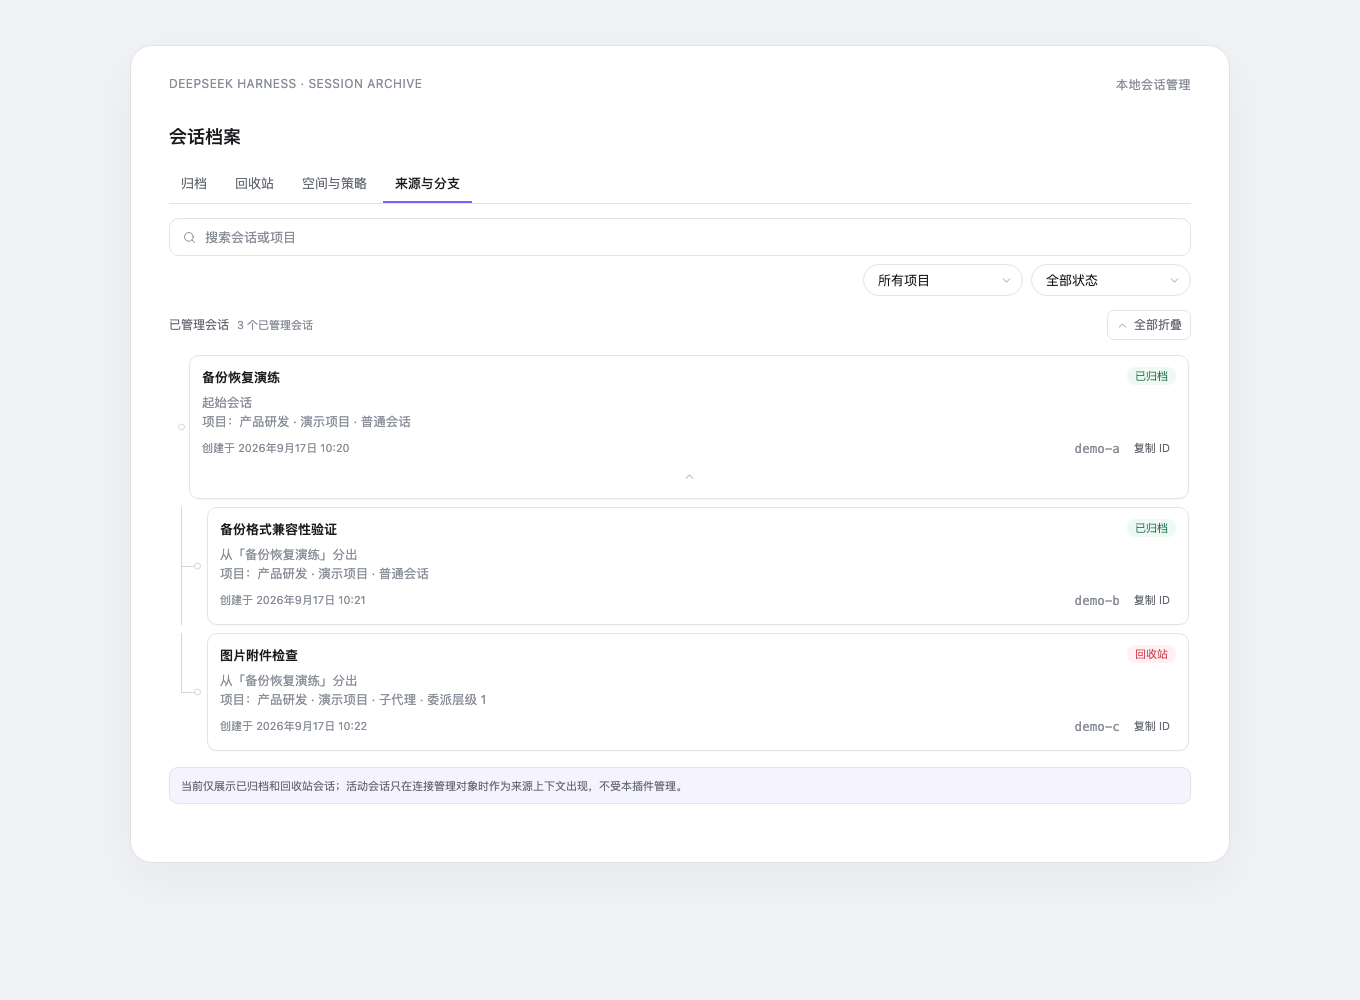
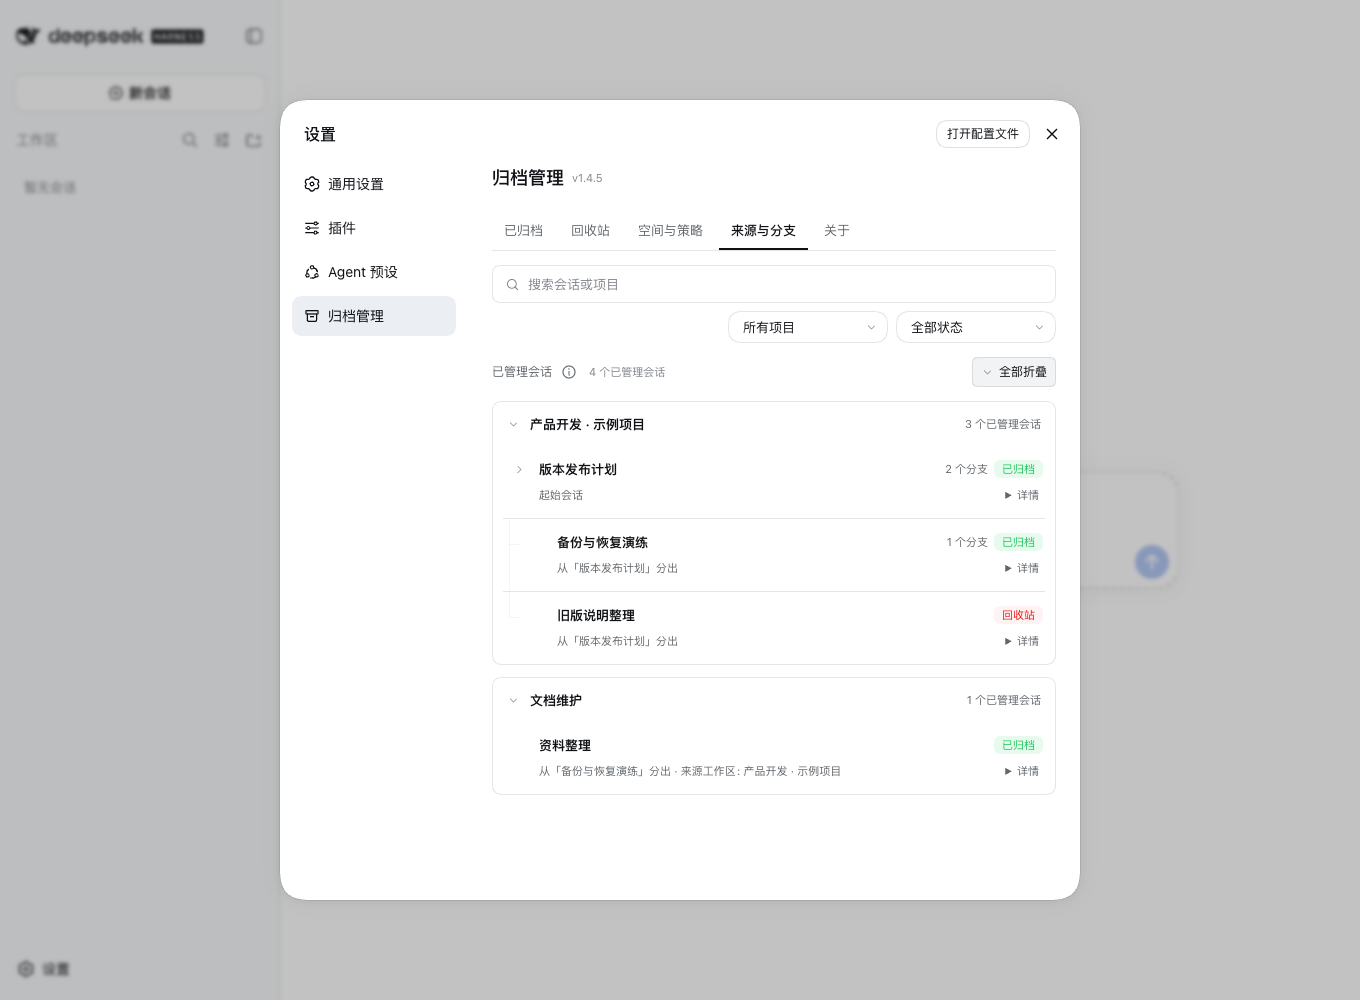
docs: refresh 1.4.5 guides and screenshots (#54)

diff --git a/README.md b/README.md
@@ -32,7 +32,7 @@ Archive Management gives DeepSeek Harness a place to find chats hidden from the 
 
 > The English name is **Archive Management**, and the Chinese name is **归档管理**. The installation package remains `dsh-archived-chats`.
 >
-> This document follows the `main` branch. This guide targets 1.4.4, whose runtime code is unchanged from 1.4.3; package metadata now lists DSH `0.1.7-rc.2` among the verified Hosts. 1.4.3 accepts the v4 session format those Hosts publish. The 1.4.2 export writer no longer carries a dependency that prevents startup on newer Hosts. See the [changelog](CHANGELOG.md) for release history, including 1.4.1's English rename and feedback improvements.
+> This document follows the `main` branch and targets 1.4.5. This release refreshes documentation and screenshots; runtime behavior and Host compatibility are unchanged from 1.4.4. See the [changelog](CHANGELOG.md) for release history.
 
 ## Quick start
 
@@ -65,6 +65,19 @@ dsh plugin --profile web update dsh-archived-chats
 | Storage and relationships | Storage accounting, optional automatic Recycle Bin cleanup, and read-only Origins & Branches. |
 
 The five views are **Archived**, **Recycle Bin**, **Storage & Retention**, **Origins & Branches**, and **About**. Archiving does not create historical versions; Recycle Bin protection snapshots support recovery, not a browsable version-history library.
+
+## Screenshots
+
+These screenshots show the current interface with synthetic example chats; they contain no private conversations. The [marketplace screenshot list](screenshots.json) uses the same files in the same order.
+
+1. [Archived chats](assets/screenshots/preview-01.png)
+2. [Full-text search](assets/screenshots/preview-02.png)
+3. [Workspace bulk archive](assets/screenshots/preview-03.png)
+4. [Read-only preview](assets/screenshots/preview-04.png)
+5. [Recycle Bin](assets/screenshots/preview-05.png)
+6. [Restore confirmation](assets/screenshots/preview-06.png)
+7. [Storage & Retention](assets/screenshots/preview-07.png)
+8. [Origins & Branches](assets/screenshots/preview-08.png)
 
 The Archived header has **Bulk archive** and **More**. More contains Import backup, Export all, Unarchive all, then Delete all after a separator. The Recycle Bin header directly shows **Restore all** and **Empty Recycle Bin** without a More menu. Recycle rows retain the preview icon and use compact **Restore** and **Delete** text buttons. Workspace and global restoration separately confirm scope, counts, and the Archived destination, skipping pending deletions. Empty Recycle Bin still requires irreversible-action confirmation. The header keeps consistent dimensions across tabs. Workspace actions and global export, unarchive, and deletion ask you to confirm the complete archive scope and chat count.
 
@@ -121,7 +134,7 @@ The package declares DSH `>=0.1.0-rc.7`; individual features depend on public Ho
 
 Recycle Bin preview still depends on the original session; a missing original may prevent preview even when a protection snapshot can restore it. See [compatibility and limits](docs/USER_GUIDE.md#compatibility-and-limits).
 
-The declared range remains capability-based. Release automation passed Node.js 18 on Ubuntu and Node.js 24 on Ubuntu, macOS, and Windows; the Node.js 24 matrix required the official Host backend integration (5/5) and package checks. The installed 1.4.0 artifact also passed the official native round trip (5/5) against `@deepseek-ai/dsh-session@0.1.5-rc.2`.
+The declared range remains capability-based. Release automation tests Node.js 18 on Ubuntu and Node.js 24 on Ubuntu, macOS, and Windows; the Node.js 24 matrix requires the official `@deepseek-ai/dsh-session@0.1.7-rc.2` Host backend integration (5/5) and package checks, including the v4 session format.
 
 ## Documentation
 

diff --git a/README.zh-CN.md b/README.zh-CN.md
@@ -30,7 +30,7 @@
 
 > 中文名称为「归档管理」，英文名称为 Archive Management；安装包名始终为 `dsh-archived-chats`。
 >
-> 本文跟随 `main` 分支维护。本文适用于 1.4.4，其运行时代码与 1.4.3 相同；包元数据现将 DSH `0.1.7-rc.2` 列为已验证 Host。1.4.3 接受这些 Host 发出的 v4 会话格式。1.4.2 的导出实现不再携带会导致新版 Host 启动失败的依赖；已安装用户请先升级。版本变更见[更新日志](CHANGELOG.md)，其中包含 1.4.1 的英文名称统一与交互提示优化。
+> 本文跟随 `main` 分支维护，适用于 1.4.5。本版更新文档和截图；运行时行为及 Host 兼容性与 1.4.4 相同。版本变更见[更新日志](CHANGELOG.md)。
 
 ## 快速开始
 
@@ -63,6 +63,19 @@ dsh plugin --profile web update dsh-archived-chats
 | 空间与关系 | 空间分账、可选的回收站自动清理，以及只读「来源与分支」。 |
 
 五个视图为 **已归档**、**回收站**、**空间与策略**、**来源与分支** 和 **关于**。归档不会创建历史版本；回收站保护快照仅用于恢复，不是可浏览的历史版本库。
+
+## 界面截图
+
+以下截图使用虚构示例聊天展示当前界面，不含私人会话。[插件市场截图清单](screenshots.json)使用相同文件及顺序。
+
+1. [已归档聊天](assets/screenshots/preview-01.png)
+2. [全文搜索](assets/screenshots/preview-02.png)
+3. [工作区批量归档](assets/screenshots/preview-03.png)
+4. [只读预览](assets/screenshots/preview-04.png)
+5. [回收站](assets/screenshots/preview-05.png)
+6. [恢复确认](assets/screenshots/preview-06.png)
+7. [空间与策略](assets/screenshots/preview-07.png)
+8. [来源与分支](assets/screenshots/preview-08.png)
 
 已归档页顶部仅保留 **批量归档** 和 **更多**；「更多」依次提供导入备份、全部导出、全部取消归档，分隔线后为全部删除。回收站顶部直接并列显示 **全部恢复** 和 **清空回收站**，不再设更多菜单；聊天行保留预览图标，使用紧凑的 **恢复** 和 **删除** 文字按钮。工作区恢复和全局恢复分别确认范围、数量及已归档去向，跳过正在永久删除的条目；清空仍须确认不可恢复的后果。各 Tab 顶部保持一致尺寸。工作区操作及全局导出、取消归档、删除均先确认完整归档范围和聊天数量。
 
@@ -119,7 +132,7 @@ dsh plugin --profile web update dsh-archived-chats
 
 回收站预览目前仍依赖原会话；原件丢失时，即使保护快照可恢复，也可能无法预览。详见[兼容性与限制](docs/USER_GUIDE.zh-CN.md#兼容性与限制)。
 
-声明的版本范围仍以 Host 公开能力为准。发布自动化已通过 Ubuntu 上的 Node.js 18，以及 Ubuntu、macOS 和 Windows 上的 Node.js 24；Node.js 24 矩阵强制运行官方 Host 后端集成（5/5）与打包检查。已安装的 1.4.0 产物也已在 `@deepseek-ai/dsh-session@0.1.5-rc.2` 上通过官方 native 闭环（5/5）。
+声明的版本范围仍以 Host 公开能力为准。发布自动化在 Ubuntu 上测试 Node.js 18，并在 Ubuntu、macOS 和 Windows 上测试 Node.js 24；Node.js 24 矩阵强制运行基于官方 `@deepseek-ai/dsh-session@0.1.7-rc.2` 的 Host 后端集成（5/5）与打包检查，覆盖 v4 会话格式。
 
 ## 文档
 

diff --git a/docs/USER_GUIDE.md b/docs/USER_GUIDE.md
@@ -2,7 +2,7 @@
 
 English · [简体中文](USER_GUIDE.zh-CN.md) · [Back to README](../README.md)
 
-Archive Management provides a place to browse and manage DSH's archived chats, plus workspace bulk archiving. This document follows the `main` branch. This guide targets 1.4.4, whose runtime code is unchanged from 1.4.3; package metadata now lists DSH `0.1.7-rc.2` among the verified Hosts. 1.4.3 accepts the v4 session format those Hosts publish. The 1.4.2 export writer no longer carries a dependency that prevents startup on newer Hosts. See the [changelog](../CHANGELOG.md) for release history, including 1.4.1's English rename and feedback improvements. For interfaces and data formats, see the [architecture](ARCHITECTURE.en.md).
+Archive Management provides a place to browse and manage DSH's archived chats, plus workspace bulk archiving. This document follows the `main` branch and targets 1.4.5. This release refreshes documentation and screenshots; runtime behavior and Host compatibility are unchanged from 1.4.4. See the [changelog](../CHANGELOG.md) for release history. For interfaces and data formats, see the [architecture](ARCHITECTURE.en.md).
 
 ## Understand the three locations
 
@@ -198,7 +198,7 @@ Features depend on public Host capabilities, not just a version number:
 - Version 2 protection records require this or a newer plugin. Before downgrading, restore recycled chats you need to retain and back up plugin data.
 - If `trash.json` cannot be read, Archived is marked unverified, the Recycle Bin is unavailable, and archive mutations such as unarchive, tag/note editing, and deletion are refused instead of guessing.
 
-The declared DSH `>=0.1.0-rc.7` range remains capability-based. Release automation passed Node.js 18 on Ubuntu and Node.js 24 on Ubuntu, macOS, and Windows; the Node.js 24 matrix required the official Host backend integration (5/5) and package checks. The installed 1.4.0 artifact also passed the official native round trip (5/5) against `@deepseek-ai/dsh-session@0.1.5-rc.2`.
+The declared DSH `>=0.1.0-rc.7` range remains capability-based. Release automation tests Node.js 18 on Ubuntu and Node.js 24 on Ubuntu, macOS, and Windows; the Node.js 24 matrix requires the official `@deepseek-ai/dsh-session@0.1.7-rc.2` Host backend integration (5/5) and package checks, including the v4 session format.
 
 ## Local data and uninstall
 

diff --git a/docs/ARCHITECTURE.en.md b/docs/ARCHITECTURE.en.md
@@ -2,7 +2,7 @@
 
 English · [中文](ARCHITECTURE.md) · [User guide](USER_GUIDE.md)
 
-This document follows `main`, covering 1.4.4 behavior, whose runtime code is unchanged from 1.4.3 (1.4.3 accepts the v4 session format in the persistence compatibility layer, 1.4.2 switched export ZIP generation to `fflate`); see the [changelog](../CHANGELOG.md) for release history. Runtime code is the authority for interfaces and behavior; user-facing documentation should agree with it.
+This document follows `main` and covers 1.4.5 behavior. This release refreshes documentation and screenshots; runtime behavior and Host compatibility are unchanged from 1.4.4. See the [changelog](../CHANGELOG.md) for release history. Runtime code is the authority for interfaces and behavior; user-facing documentation should agree with it.
 
 ## Product boundary and modules
 
@@ -216,4 +216,4 @@ git diff --check
 
 The native commands install the locked `@deepseek-ai/dsh-session@0.1.7-rc.2` fixture and require all five native round-trip cases to run without skips. This is the local equivalent of the mandatory native Host integration gate in CI.
 
-The declared DSH `>=0.1.0-rc.7` range remains capability-based. Release automation passed Node.js 18 on Ubuntu and Node.js 24 on Ubuntu, macOS, and Windows; the Node.js 24 matrix required the official Host backend integration (5/5) and package checks. The installed 1.4.0 artifact also passed the official native round trip (5/5) against `@deepseek-ai/dsh-session@0.1.5-rc.2`. Existing screenshots are from v1.3.1 and include retired snapshot UI; they remain historical examples rather than current behavior documentation.
+The declared DSH `>=0.1.0-rc.7` range remains capability-based. Release automation tests Node.js 18 on Ubuntu and Node.js 24 on Ubuntu, macOS, and Windows; the Node.js 24 matrix requires the official `@deepseek-ai/dsh-session@0.1.7-rc.2` Host backend integration (5/5) and package checks, including the v4 session format. The [screenshots](../screenshots.json) show the current interface with synthetic example chats.

diff --git a/docs/ARCHITECTURE.md b/docs/ARCHITECTURE.md
@@ -2,7 +2,7 @@
 
 [English](ARCHITECTURE.en.md) · 中文 · [用户指南](USER_GUIDE.zh-CN.md)
 
-本文跟随 `main` 分支，功能对应 1.4.4，其运行时代码与 1.4.3 相同（1.4.3 在持久化兼容层接受 v4 会话格式，1.4.2 改用 `fflate` 生成导出 ZIP）；版本变更见[更新日志](../CHANGELOG.md)。运行时代码是接口与行为的依据；用户操作说明与本文应保持一致。
+本文跟随 `main` 分支，功能对应 1.4.5。本版更新文档和截图；运行时行为及 Host 兼容性与 1.4.4 相同。版本变更见[更新日志](../CHANGELOG.md)。运行时代码是接口与行为的依据；用户操作说明与本文应保持一致。
 
 ## 产品边界与模块
 
@@ -216,4 +216,4 @@ git diff --check
 
 原生集成命令会安装锁定的 `@deepseek-ai/dsh-session@0.1.7-rc.2` fixture，并要求五个原生往返用例全部执行且不能跳过；这是 CI 强制原生 Host 集成门禁的本地等价检查。
 
-声明的 DSH `>=0.1.0-rc.7` 范围仍以 Host 公开能力为准。发布自动化已通过 Ubuntu 上的 Node.js 18，以及 Ubuntu、macOS 和 Windows 上的 Node.js 24；Node.js 24 矩阵强制运行官方 Host 后端集成（5/5）与打包检查。已安装的 1.4.0 产物也已在 `@deepseek-ai/dsh-session@0.1.5-rc.2` 上通过官方 native 闭环（5/5）。现有截图来自 v1.3.1，含退役快照界面；它们仍是历史示例，不作为当前行为说明。
+声明的 DSH `>=0.1.0-rc.7` 范围仍以 Host 公开能力为准。发布自动化在 Ubuntu 上测试 Node.js 18，并在 Ubuntu、macOS 和 Windows 上测试 Node.js 24；Node.js 24 矩阵强制运行基于官方 `@deepseek-ai/dsh-session@0.1.7-rc.2` 的 Host 后端集成（5/5）与打包检查，覆盖 v4 会话格式。[截图](../screenshots.json)使用虚构示例聊天展示当前界面。

diff --git a/CHANGELOG.md b/CHANGELOG.md
@@ -4,6 +4,18 @@
 
 Entries describe behavior at each release, not necessarily current behavior. Consult the READMEs and user guides for current usage.
 
+## 1.4.5 — 2026-09-27
+
+### 中文
+
+- 使用隔离的虚构示例数据重拍八张插件界面截图，替换仍显示 1.3.1 旧界面及已移除快照入口的图片；中英文 README 与插件市场截图清单使用相同文件和顺序。
+- 同步中英文 README、用户指南及架构文档的版本说明，突出当前 `0.1.7-rc.2` Host fixture 与 v4 会话格式验证。本版不改动运行时代码、数据格式或 Host 兼容范围。
+
+### English
+
+- Replace all eight 1.3.1 screenshots, which showed retired snapshot UI, with captures of the current plugin using isolated synthetic example data. Both READMEs and the marketplace screenshot list reference the same files in the same order.
+- Update version notes in both READMEs, user guides, and architecture documents to describe the current `0.1.7-rc.2` Host fixture and v4 session-format verification. Runtime code, data format, and Host compatibility range are unchanged.
+
 ## 1.4.4 — 2026-09-27
 
 ### 中文
